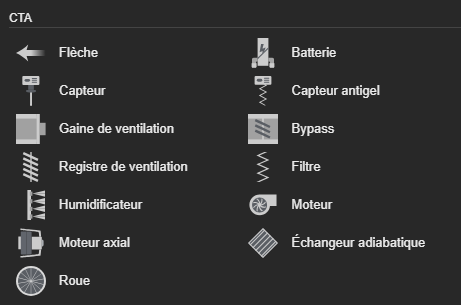
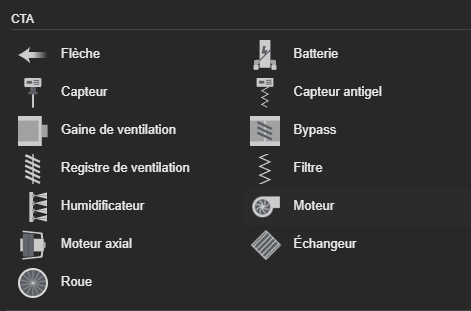
fix doc

diff --git a/synapps-studio-releases/notes/1.7.1-beta.md b/synapps-studio-releases/notes/1.7.1-beta.md
@@ -202,6 +202,18 @@ L'acteur _Échangeur_ permet de représenter un échangeur avec personnalisation
 
 ![Échangeur CTA](assets/1.7/cta-exchanger.gif)
 
+### Acteurs Chaufferie
+
+#### Acteur _Tuyau_
+
+L'acteur _Tuyau_ en mode droit propose maintenant de choisir la taille du tuyau.
+
+### Acteur _Pompe double_
+
+Ajout du mode `bridé` / `débridé`.
+Lorsque l'acteur est en mode `bridé`, il affiche une pompe double avec une seule pompe active à la fois, c'est un statut qui contrôle le fonctionnement. En mode `débridé`, les deux pompes peuvent être actives simultanément ce sont plusieurs propriétés qui contrôlent le fonctionnement.
+
+
 ### Gestion des Hôtes
 
 L'aspect de la page de gestion des hôtes a été revu :
@@ -229,9 +241,3 @@ Similaire au fournisseur de requête, ce nouvel acteur permet d'exécuter une in
 Alimenté directement par un curseur de requête, cet acteur permet d'afficher des données paginées issues de la base de données SQL.
 
 Les colonnes peuvent être générées automatiquement selon les données reçues ou configurées manuellement. Comme pour le tableau de données classique, de nombreux évènements sont disponibles pour interagir avec les cellules et personnaliser le rendu.
-
-
-## Corrections
-
-- Acteur _Pompe double_ : Ajout du mode `bridé` / `débridé`.
-  Lorsque l'acteur est en mode `bridé`, il affiche une pompe double avec une seule pompe active à la fois, c'est un statut qui contrôle le fonctionnement. En mode `débridé`, les deux pompes peuvent être actives simultanément ce sont plusieurs propriétés qui contrôlent le fonctionnement.
